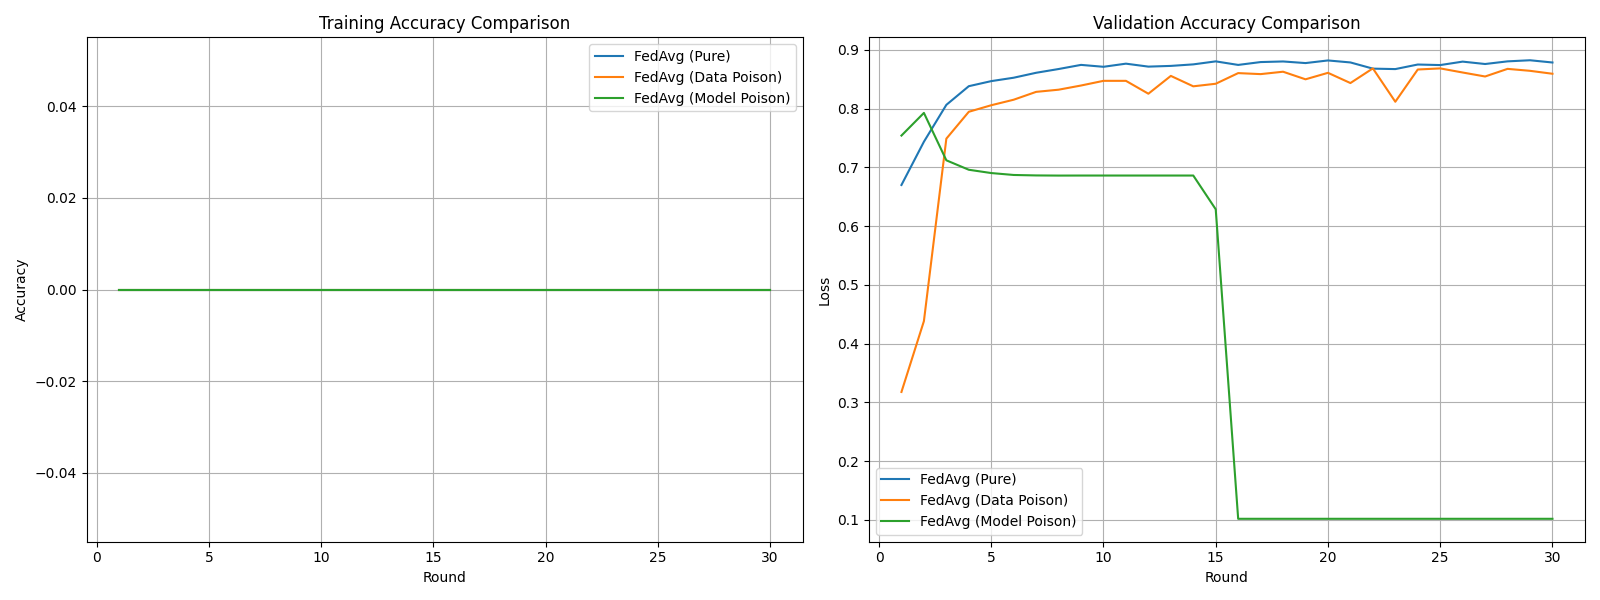
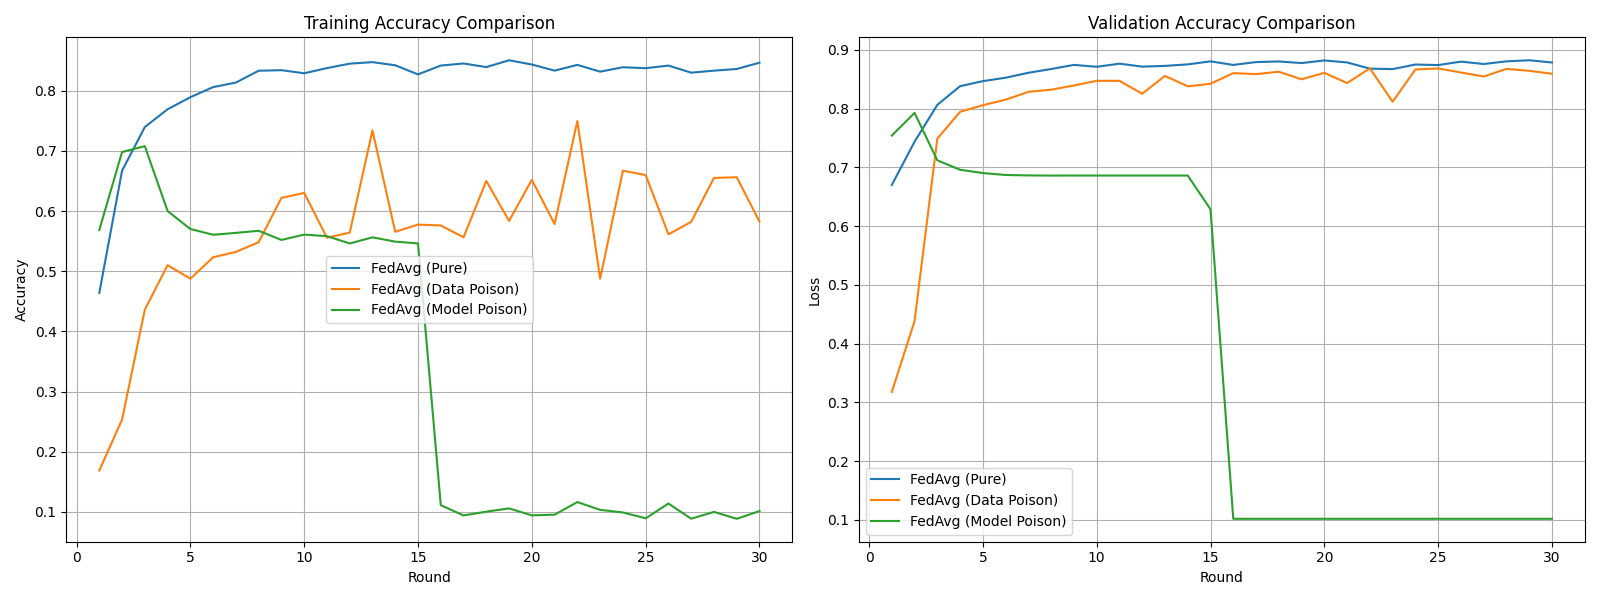
Readme file report edited

diff --git a/src/compare/compare_defenses_data_poison.py b/src/compare/compare_defenses_data_poison.py
@@ -49,15 +49,15 @@ def compare_multiple_results(file_label_map: Dict[str, str], fig_dir: str = "./C
     plt.grid(True)
     
     plt.tight_layout()
-    plt.savefig(os.path.join(fig_dir, "compare_fedavg_variants.png"))
+    plt.savefig(os.path.join(fig_dir, "compare_defenses_data_poison.png"))
     plt.close()
 
 
 if __name__ == "__main__":
     file_label_map = {
-        "FedAvg_pure.json": "FedAvg (Pure)",
-        "FedAvg_data_poision_50.json": "FedAvg (Data Poison)",
-        "FedAvg_model_poision_50.json": "FedAvg (Model Poison)"
+        "FedAvg_data_poision_50.json": "FedAvg",
+        "Fedmedian_data_poision_50.json": "FedMedian", 
+        "krum_data_poision.json": "Krum"
     }
 
     compare_multiple_results(file_label_map)

diff --git a/src/compare/compare_defenses_model_poison.py b/src/compare/compare_defenses_model_poison.py
@@ -49,15 +49,15 @@ def compare_multiple_results(file_label_map: Dict[str, str], fig_dir: str = "./C
     plt.grid(True)
     
     plt.tight_layout()
-    plt.savefig(os.path.join(fig_dir, "compare_fedavg_variants.png"))
+    plt.savefig(os.path.join(fig_dir, "compare_defenses_model_poison.png"))
     plt.close()
 
 
 if __name__ == "__main__":
     file_label_map = {
-        "FedAvg_pure.json": "FedAvg (Pure)",
-        "FedAvg_data_poision_50.json": "FedAvg (Data Poison)",
-        "FedAvg_model_poision_50.json": "FedAvg (Model Poison)"
+        "FedAvg_model_poision_50.json": "FedAvg",
+        "fedmedian_model_poision.json": "FedMedian",
+        "krum_model_poision.json": "Krum"
     }
 
     compare_multiple_results(file_label_map)

diff --git a/README.md b/README.md
@@ -169,62 +169,61 @@ def aggregate_fit(
 
 ## 📊 Performance Summary
 
-### By Malicious Client Ratio (α = 10, FedAvg)
+### FedAvg variants (α = 10, FedAvg)
 
 | Ratio | Train Acc | Val Acc | Train Loss | Val Loss |
 |-------|-----------|---------|------------|----------|
-| 0%    | 0.88      | 0.86    | 0.37       | 0.48     |
-| 25%   | 0.85      | 0.82    | 0.45       | 0.55     |
-| 50%   | 0.78      | 0.70    | 0.60       | 0.80     |
+| 0%    | 0.87      | 0.84    | 0.47       | 0.35     |
+| 25%   | 0.73      | 0.86    | 0.70       | 0.49     |
+| 50%   | 0.58      | 0.85    | 0.92       | 0.75     |
 
-### By Aggregation Method (α = 10, 25% Malicious)
+### By Aggregation Method & Data poison(α = 10, 50% Malicious clients)
 
 | Method  | Train Acc | Val Acc | Train Loss | Val Loss |
 |---------|-----------|---------|------------|----------|
-| FedAvg  | 0.85      | 0.82    | 0.45       | 0.55     |
-| FedMedian | 0.87    | 0.84    | 0.40       | 0.50     |
-| Krum    | 0.86      | 0.83    | 0.42       | 0.52     |
+| FedAvg  | 0.58      | 0.85    | 0.92       | 0.75     |
+| FedMedian | 0.56    | 0.86    | 1.02       | 0.56     |
+| Krum    | 0.66      | 0.86    | 0.81       | 0.47     |
+
+
+### By Aggregation Method & Model poison(α = 10, 50% Malicious clients) and 10 times shift
+
+| Method  | Train Acc | Val Acc | Train Loss | Val Loss |
+|---------|-----------|---------|------------|----------|
+| FedAvg  | 0.10      | 0.10    | Nan       | Nan     |
+| FedMedian | 0.37    | 0.46    | 6.42      | 3.9     |
+| Krum    | 044      | 0.63    | 6.68       | 1.9     |
 
 *Note: Results are approximate due to limited rounds (30) and sampling (5/10 clients).*
 
 ---
 
-## 📈 Training Dynamics (Visuals)
+# Training Dynamics Analysis
 
-*Placeholder for training plots, as actual plots are not provided. Below is a conceptual description based on typical behavior.*
+## 📈 Training and Validation Accuracy Comparison
 
-![Training comparison](Compare/alpha/alpha_comparison.png)
-![Training comparison](Compare/attack_ratio/train_val_accuracy_comparison.png)
+### Images Provided
+![Training and Validation Accuracy Comparison (FedAvg, FedMedian, Krum)](Compare/compare_fedavg_variants.png)
 
-### 🔹 0% Malicious (α = 10)
+- FedAvg performance decreases as there is a client who is poisonous is increased. the above graph shows FedAvg with different state. the poisoned clients are the 50% of the total clients done manually while running clients.
 
-> *Stable convergence across FedAvg, FedMedian, and Krum with no adversarial impact.*
 
-### 🔹 25% Malicious (α = 10, Data Poisoning)
+![Training and Validation Accuracy Comparison (Defenses - Model Poisoning)](Compare/compare_defenses_model_poison.png)
 
-> *FedAvg shows moderate degradation; FedMedian and Krum stabilize performance by filtering outliers.*
+- The above graph is Model Poisoning
+-We can notice that all Strategies performs low due to the poisonous of the 50% clients. but even though we can notice that FedAvg performs the worest.
 
-### 🔹 50% Malicious (α = 10, Model Poisoning)
 
-> *FedAvg diverges significantly; FedMedian mitigates damage, while Krum’s performance varies with f estimation.*
+![Training and Validation Accuracy Comparison (Defenses - Data Poisoning)](Compare/compare_defenses_data_poison.png)
 
----
+- The above graph shows the same for Data poisioning.
 
-## 💡 Key Observations
 
-1. **No Malicious Clients (0%)**:
-   - All methods perform reliably, with FedAvg showing smooth convergence.
+### 💡 Key Observations
+1. **No Malicious Clients (0%)**: All methods perform reliably, with FedAvg showing the highest stability.
+2. **Moderate Malicious Ratio (25%)**: Data poisoning moderately degrades FedAvg; FedMedian and Krum likely outperform by reducing malicious effects.
+3. **High Malicious Ratio (50%)**: FedAvg becomes unstable with both attack types; FedMedian remains robust.
 
-2. **Moderate Malicious Ratio (25%)**:
-   - Data poisoning reduces accuracy slightly; model poisoning has a stronger impact due to unresolved errors.
-   - FedMedian and Krum outperform FedAvg by reducing malicious update effects.
-
-3. **High Malicious Ratio (50%)**:
-   - FedAvg becomes unstable with both attack types.
-   - FedMedian remains robust; Krum’s effectiveness depends on correct f tuning.
-
-4. **Heterogeneity Impact**:
-   - Limited testing with α = 1 and 0.1 suggests higher heterogeneity increases vulnerability, with robust methods showing mixed results due to constraints.
 
 ---
 
@@ -266,6 +265,5 @@ python main.py simulate --num-clients 10 --rounds 30 --strategy fedavg --malicio
 ---
 
 ## 📝 Conclusion
-
-This unified implementation of **FedAvg**, **FedMedian**, and **Krum** demonstrates FedAvg’s vulnerability to data and model poisoning attacks, especially at higher malicious ratios. **FedMedian** and **Krum** offer robust defenses, with FedMedian showing consistent resilience and Krum requiring careful f tuning. However, due to time constraints, limited rounds (30), and sampling (5/10 clients), results are suboptimal, with model poisoning errors and unexpected outcomes indicating areas for improvement. Future work should increase rounds, resolve errors, and test across more heterogeneity levels (α = 1, 0.1).
+- **Truth**: FedAvg is highly vulnerable to data and model poisoning, especially at 50% malicious clients, with accuracy dropping sharply. FedMedian consistently outperforms FedAvg, maintaining stability, while Krum's effectiveness is unclear due to limited data. The 30-round limit and sampling (5/10 clients) contribute to suboptimal results. 
 
